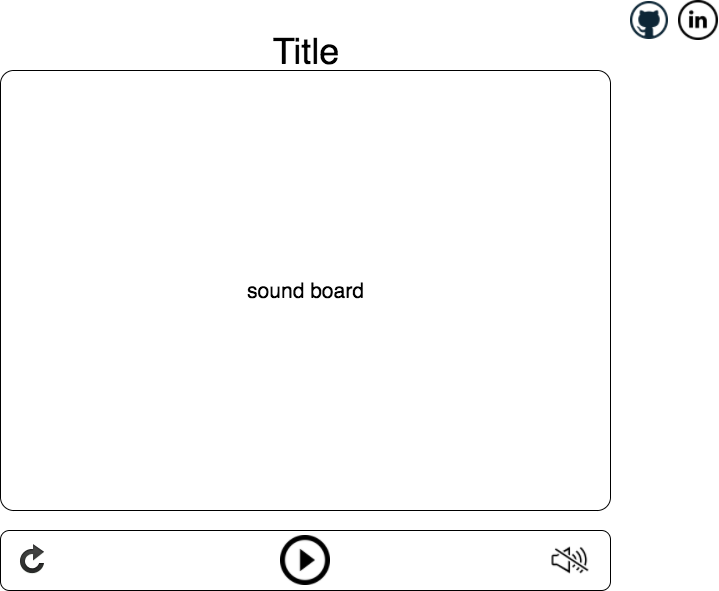
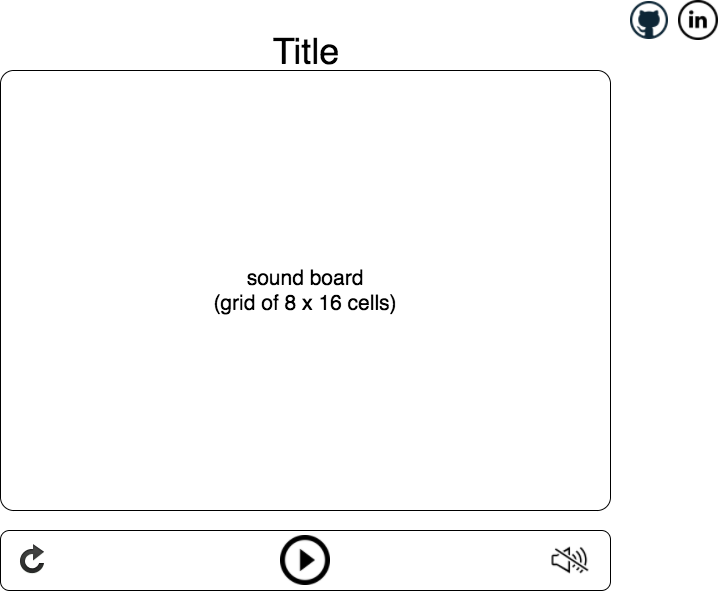
Update wireframe

Changed region(s): [[0.306, 0.4569, 0.5508, 0.5482]]

diff --git a/README.md b/README.md
@@ -16,7 +16,7 @@ With delabeats, users will be able to:
 
 This app will consist of a single screen with a sound board, sound controls. I will have nav links to the project's GitHub repo and my LinkedIn profile.
 
-The sound board will consist of [#] of different percussion beats. The sound controls will include play, mute, reset. Each cell on the board will function as an add/remove beat button.
+The sound board will consist of [#] of different percussion beats. Each cell on the board will function as an add/remove beat button. The sound controls will include play, mute, reset.
 
 ![wireframe](assets/delabeats.png)
 
@@ -48,3 +48,7 @@ Have a functional board and controls to start/play, mute, and stop beats.
 
 ### Day 4: User Interface.
 Install controls for user interaction. Style sound board and controls.
+
+### Bonus Features
+
+* Record tracks
